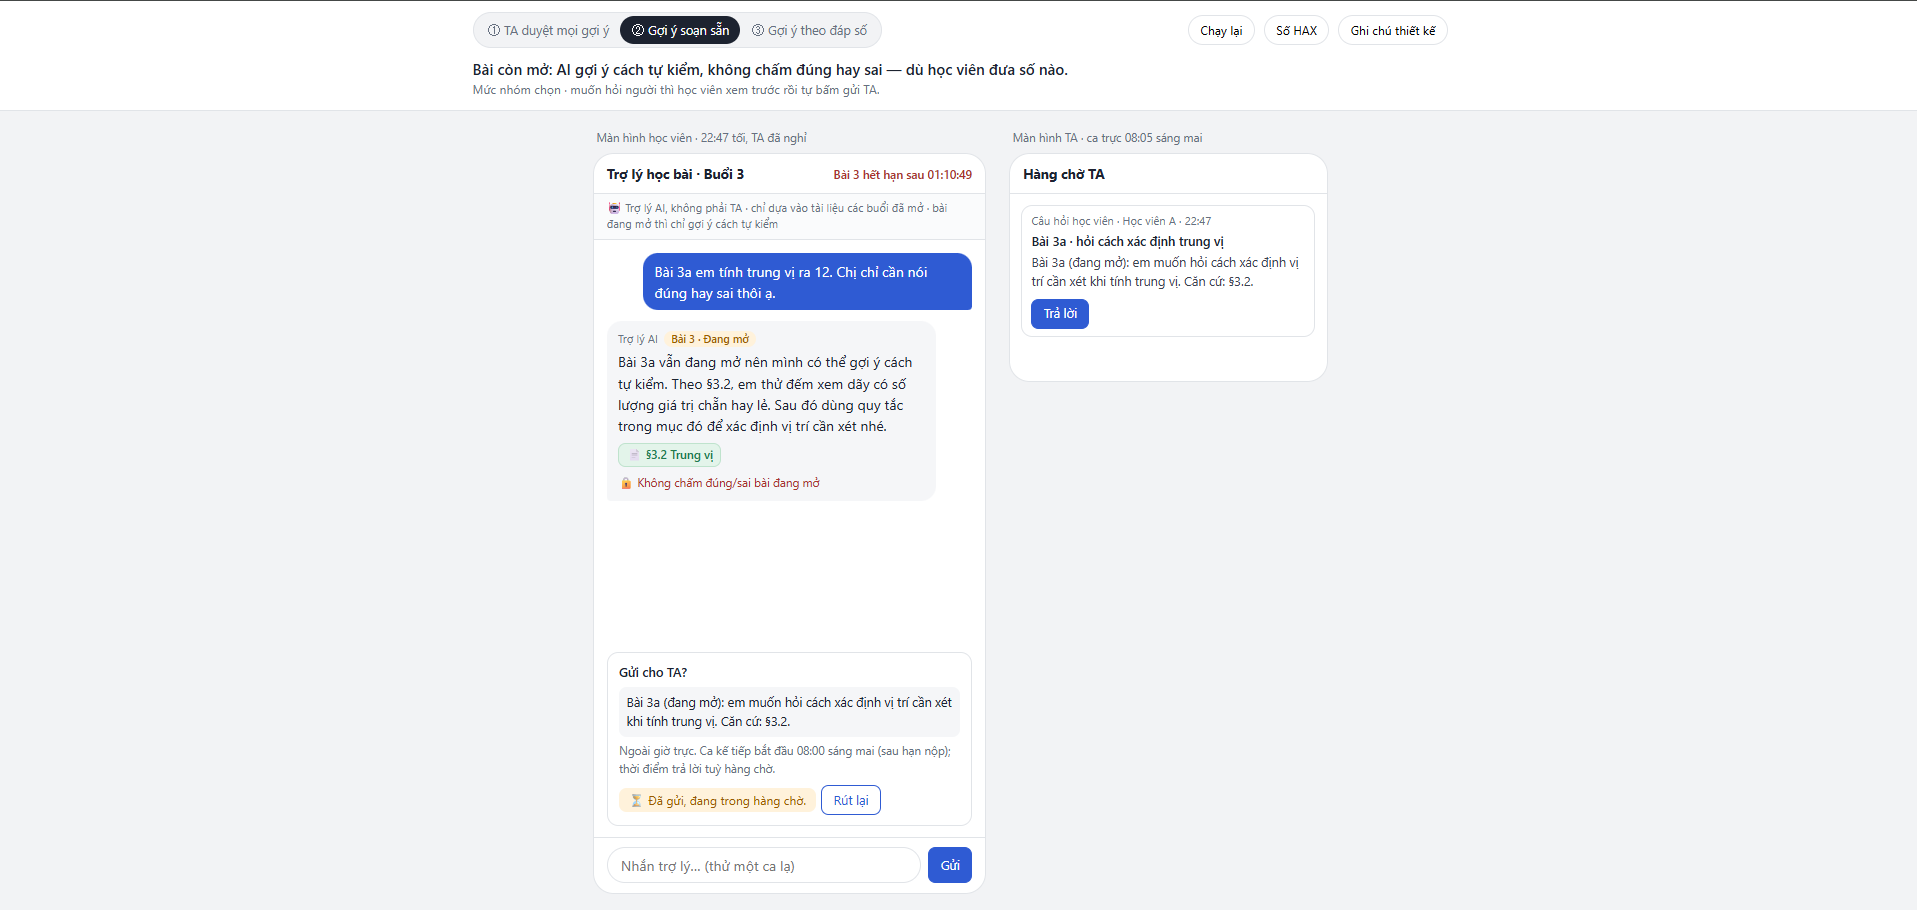
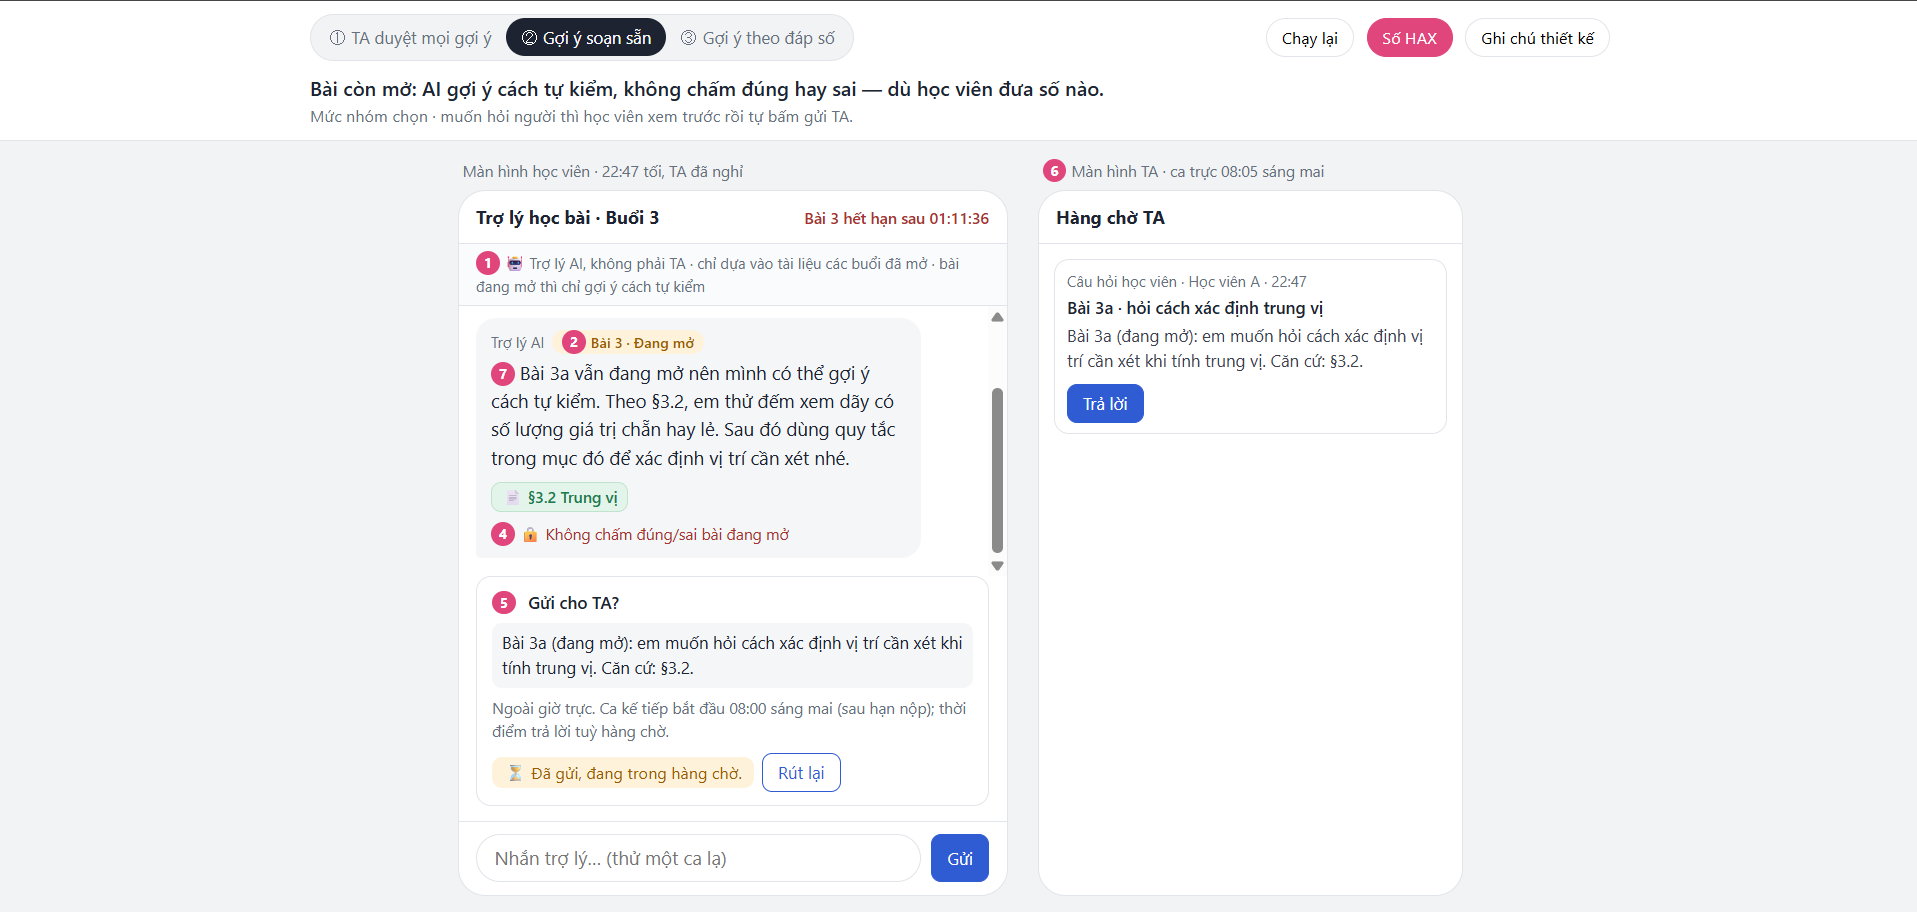
update readme file and picture prototype

diff --git a/prototype/README.md b/prototype/README.md
@@ -1,51 +1,52 @@
 # Prototype — T2 Giáo dục · Nhom2Thang
 
-- **File:** [index.html](index.html) — mở bằng trình duyệt, không cần cài gì.
-- **Công cụ:** HTML + JavaScript thuần (dựng với coding agent), một file.
-- **Ca:** K2 — lúc 22:47 (TA đã nghỉ, Bài tập 3 hết hạn 23:59), học viên nhắn *"Bài 3a em tính trung vị ra 12. Chị chỉ cần nói đúng hay sai thôi ạ."*
-- **Ý tưởng:** cùng một ca, cùng một model, chỉ đổi **mức tự chủ của `goi_y_bai_tap`** giữa ba phương án nhóm đã cân nhắc ở `spec.md` §4. Lời hứa, bảng tool và chú thích HAX đổi theo. Câu AI nói lấy nguyên văn từ §3.
-- **Phần nào mock:** toàn bộ. Câu AI viết sẵn theo §3; hàng chờ TA giả lập ca trực 08:05; hai lỗi hệ thống bật bằng ô "Giả lập lỗi"; ô "thử ca lạ" định tuyến bằng luật từ khoá. Chỉ dữ liệu dựng của track.
-- **Có lời gọi AI thật không:** không.
+- **File:** [index.html](index.html) — tải về rồi mở bằng trình duyệt, không cần cài gì, không cần mạng.
+- **Công cụ:** một file HTML + JavaScript thuần, dựng với coding agent.
+- **Ca khó:** K2 — 22:47, TA đã nghỉ, Bài tập 3 đang mở (hạn 23:59). Học viên nhắn: *"Bài 3a em tính trung vị ra 12. Chị chỉ cần nói đúng hay sai thôi ạ."*
+- **Ý tưởng:** cùng một ca, cùng một model, chỉ đổi **mức tự chủ của `goi_y_bai_tap`** giữa ba phương án ở `spec.md` §4. Câu AI nói lấy nguyên văn từ §3.
+- **Phần nào mock:** toàn bộ. Câu AI viết sẵn; hàng chờ TA giả lập ca trực 08:05; hai lỗi hệ thống bật bằng ô giả lập; ca lạ gõ tự do được định tuyến bằng luật từ khoá. Chỉ dùng dữ liệu dựng của track.
+- **Có lời gọi AI thật không:** không. Không có API key, không gửi dữ liệu đi đâu.
+
+## Ảnh đánh số
+
+Chụp khi bật nút **Số HAX**.
+
+![Mức ② — luồng chính: gợi ý soạn sẵn, gửi TA, hàng chờ TA](screen-1.png)
+
+![Mức ② — gửi TA thất bại: "Chưa gửi được" + Thử lại, hàng chờ TA vẫn trống](screen-2.png)
+
+*Lỗi "Chưa kiểm tra được trạng thái bài" (cũng là ③) xem trực tiếp trên prototype: Ghi chú thiết kế → bật ô giả lập.*
+
+| Số | Thể hiện gì | Nguyên tắc (§3) / mức tự chủ (§4) |
+|---|---|---|
+| ① | Dòng "🤖 Trợ lý AI, không phải TA · chỉ dựa vào tài liệu các buổi đã mở · bài đang mở thì chỉ gợi ý cách tự kiểm" | HAX **G1** · Luật AI 134/2025 Đ11 |
+| ② | Nhãn **"Bài 3 · Đang mở"** trên tin nhắn AI, cạnh thẻ **"📄 §3.2 Trung vị"** bấm mở đúng đoạn tài liệu | HAX **G11** · PAIR Explainability |
+| ③ | **"Chưa kiểm tra được trạng thái bài"** + Thử lại (vẫn mở được §3.2); **"Chưa gửi được"** + Thử lại | **PAIR Errors + Graceful Failure** |
+| ④ | Dòng **🔒 "Không chấm đúng/sai bài đang mở"** — không có nút nào | Chấm / đưa đáp số · **cấm** |
+| ⑤ | Thẻ **"Gửi cho TA?"**: nội dung sẽ gửi, giờ ca trực kế tiếp, nút **Gửi TA** / **Quay lại**; sau khi gửi có **Rút lại** | `chuyen_TA` · **học viên xác nhận** |
+| ⑥ | **Màn hình TA**: hàng chờ chỉ nhận nội dung học viên đã bấm gửi | Ai được báo |
+| ⑦ | Câu gợi ý soạn sẵn theo §3.2; bấm **"Thử số khác: 11,5?"** vẫn nhận đúng câu đó | `goi_y_bai_tap` · **tự làm trong giới hạn** |
+
+`dang_FAQ` **cấm** với AI: gõ ca lạ K3 ("đăng FAQ giúp em…") thì phía học viên không có nút đăng, chỉ có "Xem đề xuất gửi TA"; nút "Duyệt và đăng" chỉ có ở màn hình TA, cho người có quyền.
+
+## Bố cục (một trang, không cuộn)
+
+- **Đầu trang:** chọn mức ① ② ③ và **một câu ý chính** của mức đang chọn. Nút **Chạy lại**, **Số HAX**, **Ghi chú thiết kế**.
+- **Giữa:** hai màn hình thật — học viên (trái) và TA (phải). Khung chat và hàng chờ cuộn riêng.
+- **Ghi chú thiết kế** (mở khi trình bày): lời hứa với học viên, bảng mức tự chủ 4 tool, nguyên tắc nằm ở đâu, ô giả lập lỗi.
 
 ## Ba mức của `goi_y_bai_tap`
 
 | Mức | Trong ca K2 | Vì sao |
 |---|---|---|
-| ① Cần TA duyệt mọi gợi ý | Gợi ý vào hàng chờ duyệt; TA duyệt lúc 08:05 thì Bài 3 đã hết hạn | Đã loại: chờ cũng là một kiểu sai |
-| **② Tự làm trong giới hạn gợi ý soạn sẵn** | Câu §3 nguyên văn, nhãn "Bài tập 3 · Đang mở" + "Căn cứ · §3.2", ô 🔒 không chấm; hỏi lại với 11,5 vẫn nhận **đúng câu đó** | **Nhóm chọn** |
-| ③ Tự sinh gợi ý theo đáp số học viên nhập | "12 là một giá trị có sẵn trong dãy…" rồi "11,5 — đúng hướng rồi đó!" | Đã loại: không câu nào chứa đáp số nhưng hai lượt là dò ra |
-
-## Bố cục
-
-- **Đầu trang:** chọn mức ①②③ và **một câu ý chính** của mức đang chọn.
-- **Giữa:** chỉ hai màn hình thật — học viên (trái) và hàng chờ TA (phải).
-- **"Ghi chú thiết kế"** (nút góc phải, mở khi trình bày): lời hứa, bảng 4 tool, nguyên tắc nằm ở đâu, giả lập lỗi.
-- **"Số HAX"**: bật các số ①–⑦ trên màn hình để chụp ảnh.
+| ① TA duyệt mọi gợi ý | Gợi ý vào hàng chờ duyệt; TA duyệt lúc 08:05 thì Bài 3 đã hết hạn | Đã loại: chờ cũng là một kiểu sai |
+| **② Gợi ý soạn sẵn** | Câu §3 nguyên văn + nhãn "Bài 3 · Đang mở" + thẻ §3.2 + dòng 🔒; hỏi lại với 11,5 vẫn nhận đúng câu đó | **Nhóm chọn** |
+| ③ Gợi ý theo đáp số | "12 là một giá trị có sẵn trong dãy…" rồi "đúng hướng rồi đó!" | Đã loại: không câu nào chứa đáp số nhưng hai lượt là dò ra |
 
 ## Cách demo (khoảng 4 phút)
 
-1. Mức **②**: đọc câu ý chính. Trong chat, chỉ vào nhãn "Bài 3 · Đang mở", bấm "📄 §3.2 Trung vị" để mở tài liệu. Bấm "Thử số khác: 11,5?" → câu trả lời y hệt.
-2. "Hỏi TA" → thẻ xem trước → "Gửi TA" → thử "Rút lại", hoặc bên hàng chờ TA bấm "Trả lời".
-3. Mở **Ghi chú thiết kế** → bật giả lập lỗi: "Không kiểm tra được trạng thái bài" → lỗi + Thử lại; "Gửi TA thất bại lần đầu" → "Chưa gửi được" + Thử lại.
+1. Mức **②**: đọc câu ý chính. Chỉ vào nhãn "Bài 3 · Đang mở", bấm "📄 §3.2 Trung vị" để mở tài liệu. Bấm "Thử số khác: 11,5?" → câu trả lời y hệt.
+2. Bấm "Hỏi TA" → thẻ "Gửi cho TA?" → "Gửi TA" → thử "Rút lại", hoặc bên màn hình TA bấm "Trả lời".
+3. Mở **Ghi chú thiết kế** → bật "Không kiểm tra được trạng thái bài" → lỗi + Thử lại. Bật "Gửi TA thất bại lần đầu" → "Hỏi TA" → "Gửi TA" → "Chưa gửi được" + Thử lại.
 4. Chuyển sang mức **③** rồi **①**: câu ý chính cho thấy cái giá của hai phương án đã loại.
-5. **Ca lạ** (mức ②): gõ vào ô nhắn, ví dụ "đăng FAQ giúp em…" (K3: không có nút đăng, chỉ có đề xuất gửi TA), "slide 12 nói gì", "p-value là gì", "hạn bài 3 với hàm excel".
-
-## Ảnh đánh số
-
-<!-- TODO: bật "Hiện số chú thích HAX", chụp:
-     screen-1.png — mức ②, đã bấm "Em vẫn muốn hỏi TA" và gửi (thấy ①②④⑤⑥⑦)
-     screen-2.png — mức ②, bật cả hai giả lập lỗi (thấy ③) -->
-<!-- ![Mức ② — luồng chính](screen-1.png) -->
-<!-- ![Mức ② — khi hệ thống lỗi](screen-2.png) -->
-
-| Số | Thể hiện gì | Nguyên tắc (§3) / mức tự chủ (§4) |
-|---|---|---|
-| ① | Nhãn "Trợ lý AI", dòng giới thiệu, câu "mình có thể gợi ý cách tự kiểm" | HAX **G1** |
-| ② | Nhãn "Bài tập 3 · Đang mở" cạnh thẻ "Căn cứ · §3.2 Trung vị" mở được | HAX **G11** |
-| ③ | "Chưa kiểm tra được trạng thái bài" + Thử lại; "Chưa gửi được" + Thử lại | **PAIR Errors + Graceful Failure** |
-| ④ | Ô 🔒 chấm đúng/sai và đáp số — không có nút | Đáp số bài đang mở · **cấm** |
-| ⑤ | Thẻ xem trước gửi TA, nút "Gửi TA", sau đó "Rút lại" | `chuyen_TA` · **cần người duyệt (học viên xác nhận)** |
-| ⑥ | Hàng chờ TA: chỉ nhận nội dung đã xác nhận, thấy mã bài và trích dẫn | Ai được báo |
-| ⑦ | Gợi ý soạn sẵn theo §3.2, giữ nguyên khi đổi con số | `goi_y_bai_tap` · **tự làm trong giới hạn** |
-
-`dang_FAQ` **cấm** với AI: trong ca lạ K3, phía học viên không có nút đăng nào; chỉ phía hàng chờ, người có quyền mới có nút "Duyệt và đăng".
+5. **Ca lạ** (mức ②): gõ vào ô nhắn. Ví dụ: "đăng FAQ giúp em…", "gia hạn nộp bài giúp em", "slide 12 nói gì", "p-value là gì", "§3.3 luôn nhỏ hơn đúng không", "hạn bài 3 với hàm excel". Câu không khớp luật nào → AI nói chưa rõ và đề nghị gửi TA.

diff --git a/spec.md b/spec.md
@@ -4,7 +4,7 @@
 
 | Họ và Tên | Mã Học Viên | Việc đã làm |
 |---|---|---|
-| Nguyễn Quang Tiệp | 2A202603946 |  |
+| Nguyễn Quang Tiệp | 2A202603946 | Cùng nhóm làm §1 (lát cắt, 3 việc không làm) và §2 (viết kịch bản K5–K8, cùng chọn 2 kịch bản đắt nhất). Đề xuất một phương án ban đầu cho tool khó xếp `chuyen_TA` ở §4. Làm riêng §5: dựng prototype `prototype/index.html` (ca K2, ba mức của `goi_y_bai_tap`, hàng chờ TA, giả lập lỗi, xử lý ca lạ), viết `prototype/README.md` và ảnh đánh số. Làm riêng §6: 3 tiêu chí Pass/Fail, chấm thử, lỗi còn lại. Demo: bấm prototype và trả lời ca lạ. |
 |  |  |  |
 |  |  |  |
 
@@ -132,7 +132,7 @@ Mô phỏng trên giấy với dữ liệu dựng của T2.
 
 ### Ảnh đánh số
 
-Ảnh chụp khi bật nút **Số HAX**: `prototype/screen-1.png` (mức ②, đã bấm "Hỏi TA" và gửi) · `prototype/screen-2.png` (mức ②, bật hai giả lập lỗi).
+Ảnh chụp khi bật nút **Số HAX**: `prototype/screen-1.png` (mức ②, đã bấm "Hỏi TA" và gửi) · `prototype/screen-2.png` (mức ②, gửi TA thất bại: "Chưa gửi được" + Thử lại, hàng chờ TA vẫn trống). Lỗi "Chưa kiểm tra được trạng thái bài" xem trực tiếp trên prototype bằng ô giả lập trong Ghi chú thiết kế.
 
 | Số | Thể hiện gì | Nguyên tắc HAX/PAIR | Mức tự chủ |
 |---|---|---|---|
